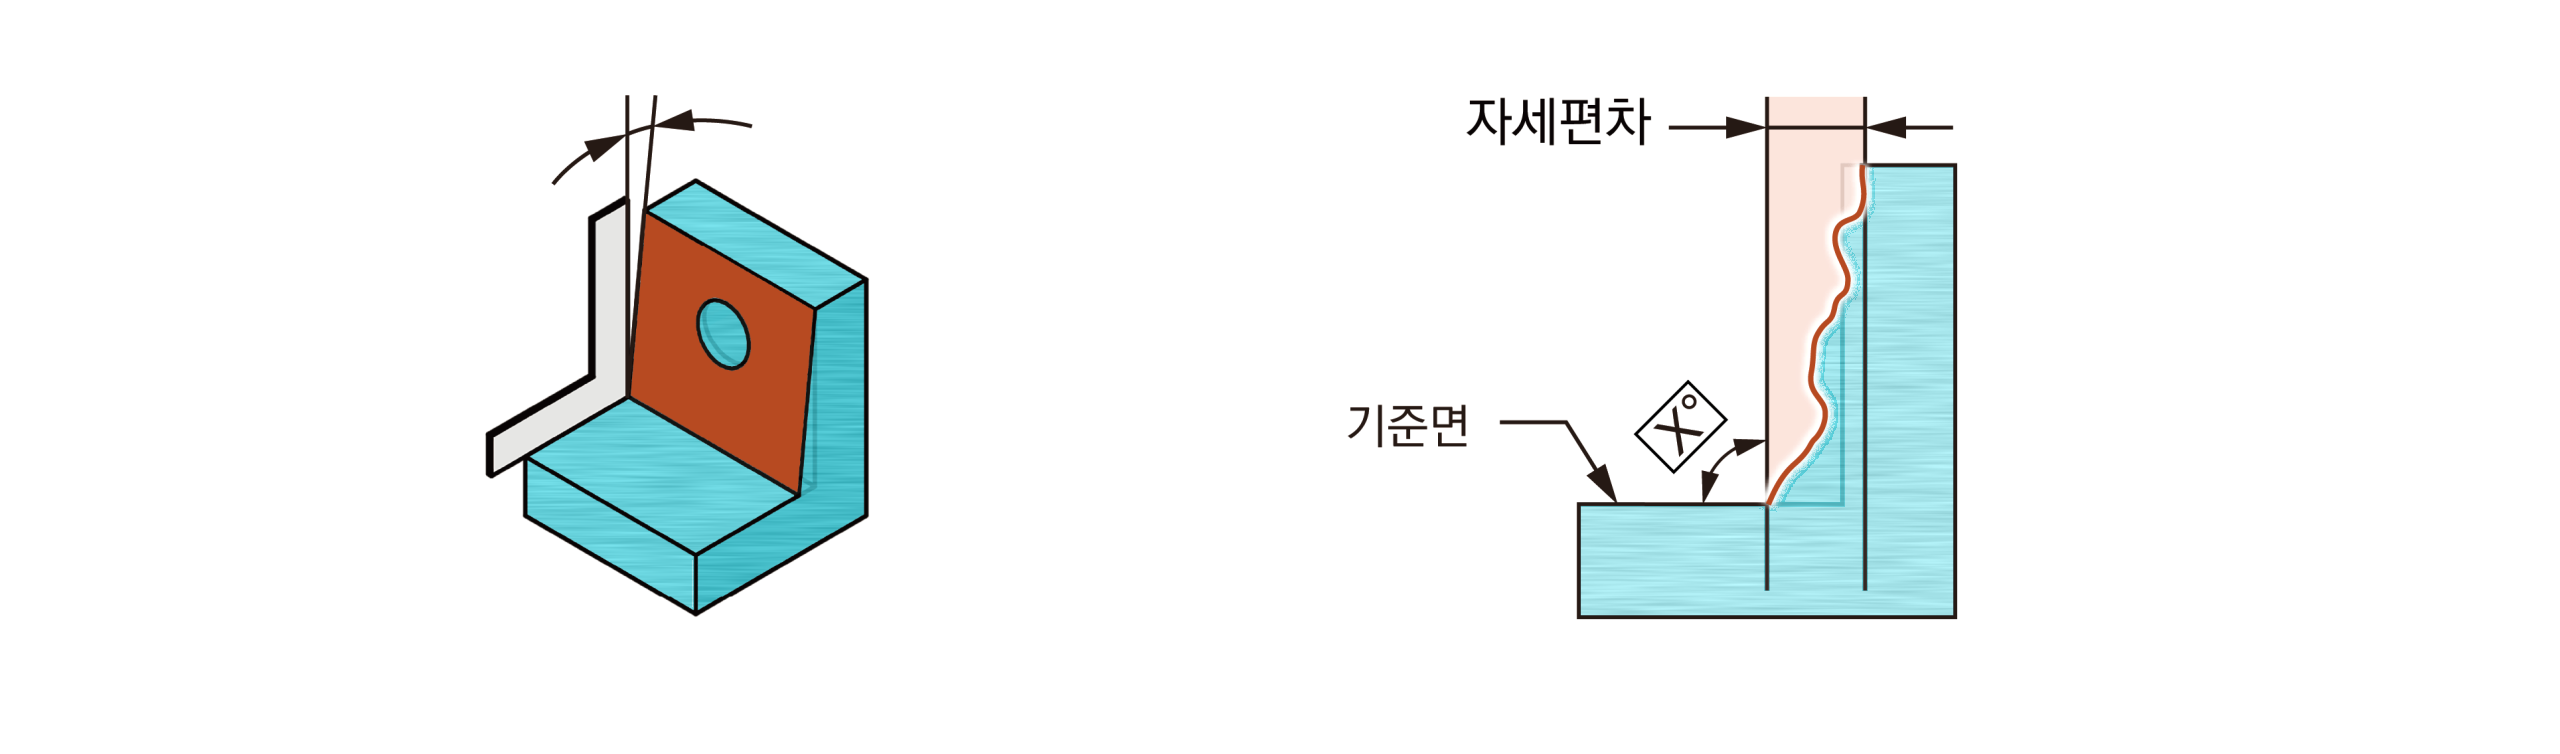
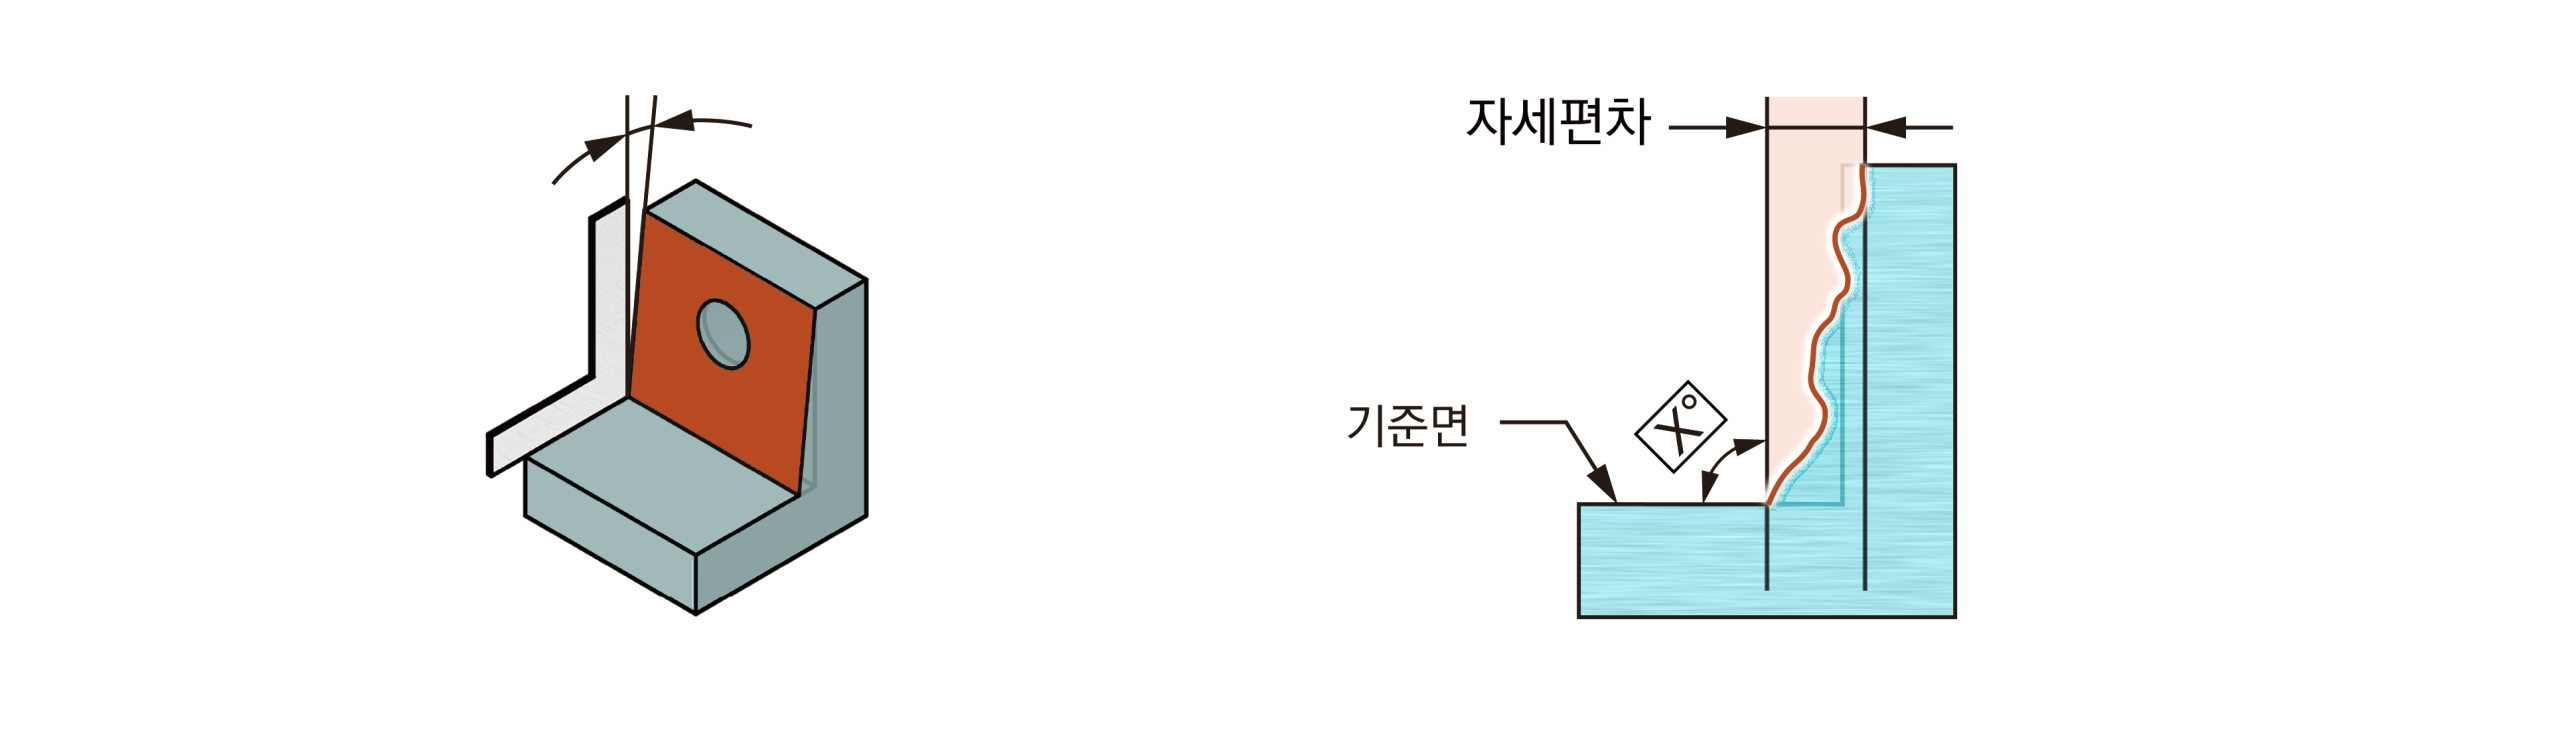
최종/본문: 입체 그림 25장 — 면마다 다른 연필 해칭(썸네일풍), 평면·단면은 기존 가로 결
Claude-Session: https://claude.ai/code/session_01C2so2XoAVSiip26u7NGxXz

Changed region(s): [[0.1875, 0.244, 0.3438, 0.8236]]

diff --git a/최종/README.md b/최종/README.md
@@ -5,7 +5,7 @@
 - `썸네일/<글id>.png` — 62장, 1280×720, 바탕 #FAF9F6. 인박스 이름(`thumb__<글 슬러그>.png`) 짝은 `썸네일·아이콘-인박스-파일명.md`.
 - `아이콘/icon-<이름>.png` — 16개, 512×512 투명. 인박스 이름 `icon__<이름>.png`.
 - `본문/<글id>/<글id>-<그림이름>.<확장자>` — 도면형 본문 그림 282장(270장 색 맞춤 + 12장은 바뀔 색이 없어 원본 그대로. 2026-10-06 입체설명형에서 옮긴 2D 도면 6장·입체 선화 23장·haeseok-7 3장·장면형에서 옮긴 측정 장면 선화 25장 포함 — haeseok-7은 투명 바탕 손그림이라 머리 칸만 --tl-s1/--tl-s2, 공차영역 원기둥만 배지 베이지). 흰 바탕, 민트 #E0F7F7, 하늘 #A6E5EB, 적갈 #B74A21.
-- 실제 부품 결(2026-10-06): 하늘 #A6E5EB 면(실제 부품)에 가는 가로 가공 결(약)을 넣었다 — 27장. sijak-defect-pass 9장은 민트 보스도 실제 부품이라 민트 면에도 결. 치공구·게이지(haeseok-6 5장, jaeryo-gauge 3장)는 회색 공구 면과 그 위 부품(민트·하늘) 모두 결 — haeseok-6 왼쪽 도면은 매끈. 도면에 그린 부품(민트)은 매끈하게 둔다. 도구 `본문그림/도구/recolor/silver.py`(image 저장소).
+- 실제 부품 결(2026-10-06): 하늘 #A6E5EB 면(실제 부품)에 가는 가로 가공 결(약)을 넣었다 — 27장. sijak-defect-pass 9장은 민트 보스도 실제 부품이라 민트 면에도 결. 치공구·게이지(haeseok-6 5장, jaeryo-gauge 3장)는 회색 공구 면과 그 위 부품(민트·하늘) 모두 결 — haeseok-6 왼쪽 도면은 매끈. 입체(아이소메트릭) 그림 25장은 가로 결 대신 면마다 방향·밀도가 다른 연필 해칭(썸네일풍, silver.py pencil_faces), 평면 그림·단면은 가로 결 그대로. 도면에 그린 부품(민트)은 매끈하게 둔다. 도구 `본문그림/도구/recolor/silver.py`(image 저장소).
 - 같은 `본문/<글id>/` 폴더에 **텍스트형** 59장(2026-10-06): 바탕 흰색, 부품이 아닌 면(표 머리·칸 띠·카드·벤다이어그램)은 디자인 시스템 바탕 토큰 `--tl-s1` #F7F6F1 / `--tl-s2` #EFEDE6, 청록 머리·글자는 `--tl-ink`, 강조 적갈, 표 안 도면 8장은 도면형 방식, ASME 인용 17장은 바탕만 흰색. 그림별 처리 방식은 image 저장소 `본문그림/도구/recolor/text_roles.json`.
 - 같은 `본문/<글id>/` 폴더에 **공차영역형** 17장(2026-10-06): 공차영역·표면요소·중심요소 설명 그림 9장과 허용 공차 그래프 8장(gibon-g06·g17·haeseok-6·jaeryo-intent·jaeryo-state)을 베이지 #FAF2E1 · 황토 #95650A(사이트 「미해결」 배지색, courses.css) · 적갈 #B74A21로 통일, 흰 바탕. (gibon-g16 3, draft-tolerance-zone 4, gibon-g02 1, gibon-g14 1)
 - `본문/haeseok-2/573__new-<위치>__<이름>.png` + `.txt` — 해석하기 2(글 573) 24장, 인박스 이름 그대로.
